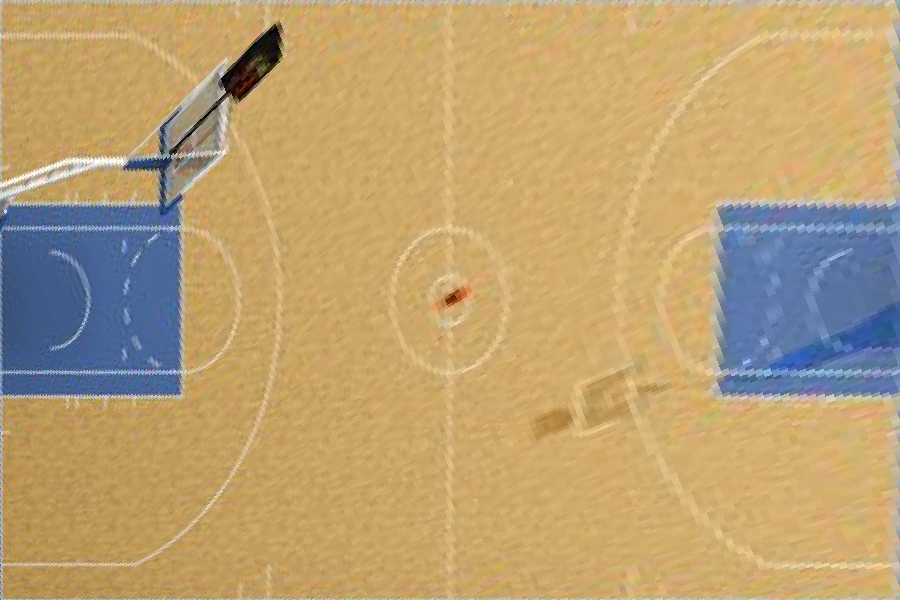
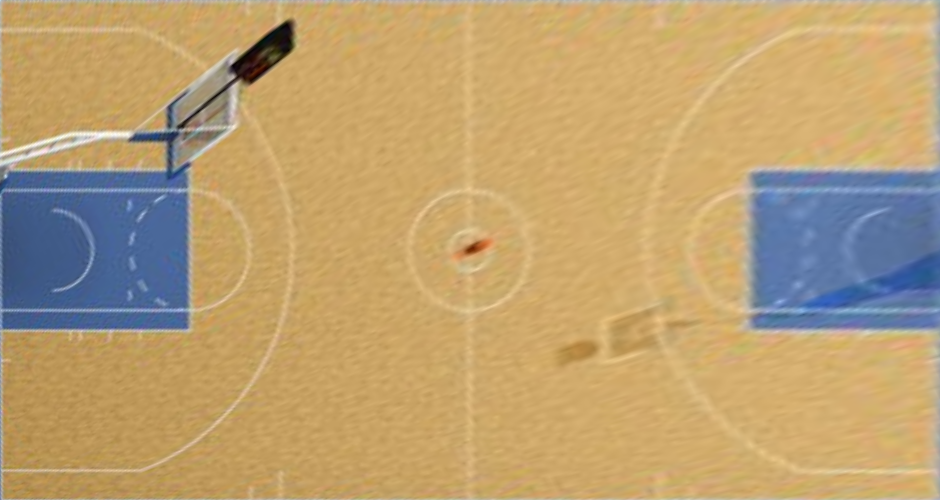
minor fixes

diff --git a/src/main.py b/src/main.py
@@ -4,7 +4,7 @@ import numpy as np
 img = cv2.imread("../basketball-court.ppm") #BGR (y, x, 3)
 input_size = (img.shape[1], img.shape[0])
 
-output_size = (900, 600)
+output_size = (940, 500)
 
 correspondence = [ # (x_i -> (x_i)')
     ([23, 193, 1], [0, 0, 1]),
@@ -92,7 +92,10 @@ def generate_image(src, homography, output_size):
             src_point = project(H_inv, point)
             out[y, x] = interpolate_bilinear(src, src_point)
 
-    cv2.imwrite("../bilinear.png", out)
+    #make sure values are in the range 0-255
+    out = np.clip(out,0, 255).astype(np.uint8)
+
+    cv2.imwrite("../out.png", out)
 
 
 H = build_homography(correspondence, input_size, output_size)
